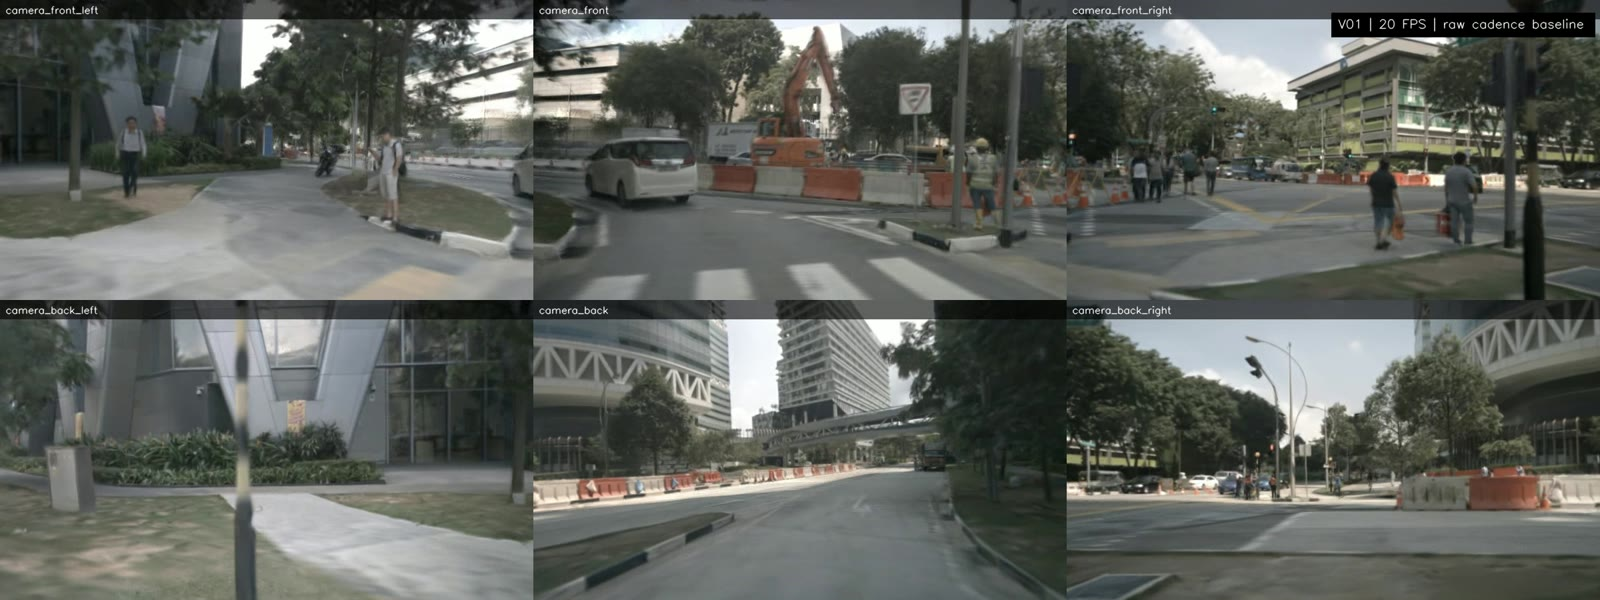
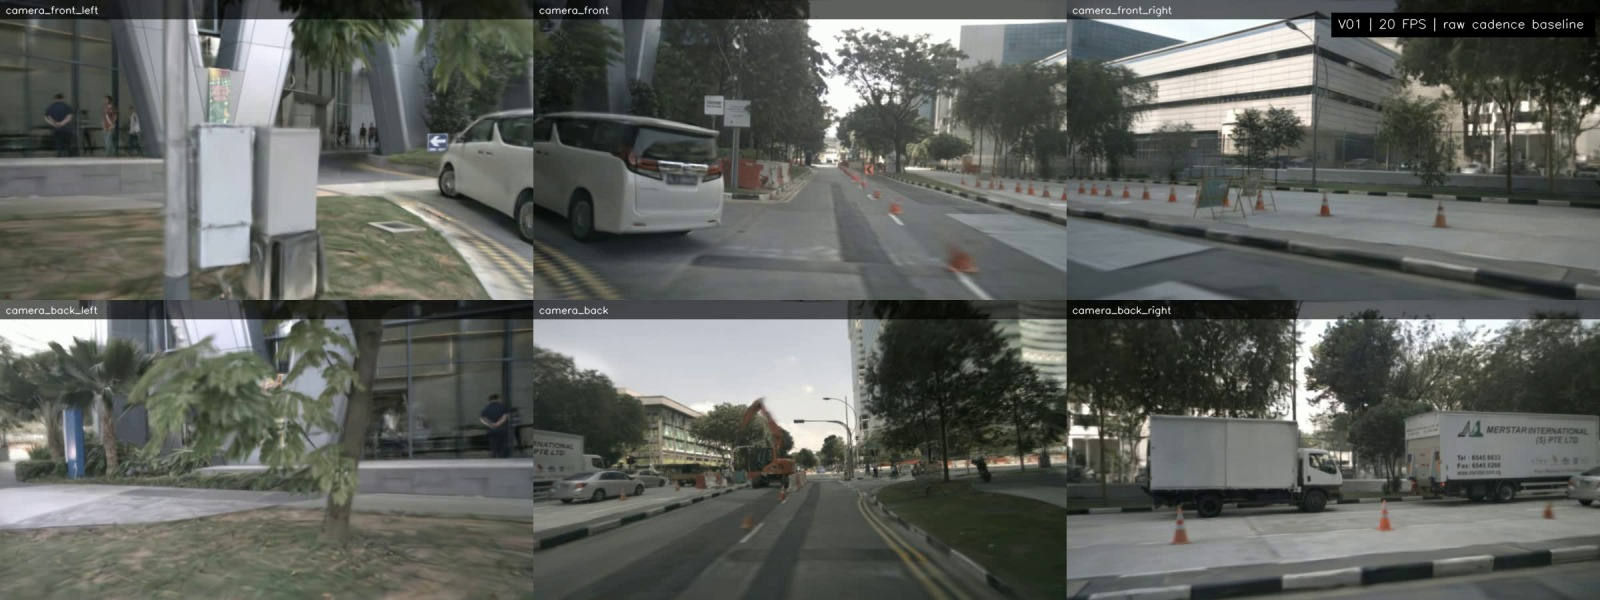
docs: align NeuralSceneBridge evidence stills

diff --git a/website/src/content/projects/en/neural-scene-bridge.md b/website/src/content/projects/en/neural-scene-bridge.md
@@ -67,20 +67,24 @@ runtime, and closed-loop evaluation. The full boundary is recorded in
 
 ## Viewer evidence
 
-These images are stills extracted from the final playback videos. The camera labels, case labels, and V03 pose readout are retained so the request-to-render-to-evidence relationship is visible in one glance.
+These images are stills extracted from the final playback videos. All four
+stills use playback frame `360/385` from the same 20 FPS sequence, so the scene
+state is directly comparable across V01, V02, V03, and V04. The camera labels,
+case labels, and V03 pose readout are retained so the request-to-render-to-
+evidence relationship is visible in one glance.
 
 <div class="project-evidence-grid">
   <figure>
     <img src="/projects/neural-scene-bridge/v01-original.jpg" alt="V01 six-camera original NuRec replay in a 3x2 layout" width="1600" height="600" loading="lazy" />
-    <figcaption>V01 original replay: six cameras are stitched in a fixed 3x2 order as the playback baseline for edits and probes.</figcaption>
+    <figcaption>V01 original replay, frame 360/385: six cameras are stitched in a fixed 3x2 order as the playback baseline for edits and probes.</figcaption>
   </figure>
   <figure>
     <img src="/projects/neural-scene-bridge/v02-edit.jpg" alt="V02 lead vehicle edit in the six-camera NuRec viewer" width="1600" height="600" loading="lazy" />
-    <figcaption>V02 lead-vehicle edit: a world-frame `+0.5m` target change reaches `render_rgb`; the front-camera view and case identity stay inspectable.</figcaption>
+    <figcaption>V02 lead-vehicle edit, frame 360/385: a world-frame `+0.5m` target change reaches `render_rgb`; the front-camera view and case identity stay inspectable.</figcaption>
   </figure>
   <figure>
     <img src="/projects/neural-scene-bridge/v03-camera-sweep.jpg" alt="V03 six-camera bounded camera pose sweep with translation and yaw readout" width="1600" height="600" loading="lazy" />
-    <figcaption>V03 camera pose sweep: `dx / dy / yaw / progress` is printed in the viewer, showing that pose control reaches the RPC request.</figcaption>
+    <figcaption>V03 camera pose sweep, frame 360/385: `dx / dy / yaw / progress` is printed in the viewer, showing that pose control reaches the RPC request.</figcaption>
   </figure>
 </div>
 
@@ -89,7 +93,7 @@ These images are stills extracted from the final playback videos. The camera lab
 <div class="project-evidence-grid">
   <figure>
     <img src="/projects/neural-scene-bridge/v04-alignment-diagnostic.jpg" alt="V04 four-panel RGB and LiDAR multimodal alignment diagnostic with added and removed points" width="1600" height="900" loading="lazy" />
-    <figcaption>V04 multimodal attempt: original RGB/LiDAR are above, edited RGB and the LiDAR overlay are below. Blue/yellow points show response differences; they are not actor-owned point labels.</figcaption>
+    <figcaption>V04 multimodal diagnostic, frame 360/385: original RGB/LiDAR are above, edited RGB and the LiDAR overlay are below. Blue/yellow points show response differences; they are not actor-owned point labels.</figcaption>
   </figure>
 </div>
 

diff --git a/website/src/content/projects/neural-scene-bridge.md b/website/src/content/projects/neural-scene-bridge.md
@@ -60,20 +60,20 @@ locale: zh
 
 ## Viewer 结果
 
-以下图片均从最终 playback video 抽帧，保留了 viewer 的 camera label、case 标识和 V03 的参数读数。大图用于面试时快速说明“请求 -> 画面 -> 证据”的对应关系。
+以下图片均从最终 playback video 抽帧，四张图统一使用同一段 20 FPS 序列的 `360/385` 帧，因此 V01、V02、V03、V04 可以直接横向对比。图片保留了 viewer 的 camera label、case 标识和 V03 的参数读数，方便面试时说明“请求 -> 画面 -> 证据”的对应关系。
 
 <div class="project-evidence-grid">
   <figure>
     <img src="/projects/neural-scene-bridge/v01-original.jpg" alt="V01 six-camera original NuRec replay in a 3x2 layout" width="1600" height="600" loading="lazy" />
-    <figcaption>V01 original replay：六路相机按固定顺序拼成 3x2 视图，作为后续 edit 和 pose probe 的回放基线。</figcaption>
+    <figcaption>V01 original replay，frame 360/385：六路相机按固定顺序拼成 3x2 视图，作为后续 edit 和 pose probe 的回放基线。</figcaption>
   </figure>
   <figure>
     <img src="/projects/neural-scene-bridge/v02-edit.jpg" alt="V02 lead vehicle edit in the six-camera NuRec viewer" width="1600" height="600" loading="lazy" />
-    <figcaption>V02 lead-vehicle edit：同一目标的 world-frame `+0.5m` edit 进入 `render_rgb`，图中保留 front camera 和 case 标识。</figcaption>
+    <figcaption>V02 lead-vehicle edit，frame 360/385：同一目标的 world-frame `+0.5m` edit 进入 `render_rgb`，图中保留 front camera 和 case 标识。</figcaption>
   </figure>
   <figure>
     <img src="/projects/neural-scene-bridge/v03-camera-sweep.jpg" alt="V03 six-camera bounded camera pose sweep with translation and yaw readout" width="1600" height="600" loading="lazy" />
-    <figcaption>V03 camera pose sweep：底部读数展示了当前 `dx / dy / yaw / progress`，证明相机 pose 不是只写进配置而是进入了 RPC 请求。</figcaption>
+    <figcaption>V03 camera pose sweep，frame 360/385：底部读数展示了当前 `dx / dy / yaw / progress`，证明相机 pose 不是只写进配置而是进入了 RPC 请求。</figcaption>
   </figure>
 </div>
 
@@ -82,7 +82,7 @@ locale: zh
 <div class="project-evidence-grid">
   <figure>
     <img src="/projects/neural-scene-bridge/v04-alignment-diagnostic.jpg" alt="V04 four-panel RGB and LiDAR multimodal alignment diagnostic with added and removed points" width="1600" height="900" loading="lazy" />
-    <figcaption>V04 multimodal attempt：上排是 original RGB/LiDAR，下排是 lead-vehicle edit RGB 与 LiDAR overlay；蓝/黄点只表示响应差异，不能直接当作目标 actor 的点云标签。</figcaption>
+    <figcaption>V04 multimodal diagnostic，frame 360/385：上排是 original RGB/LiDAR，下排是 lead-vehicle edit RGB 与 LiDAR overlay；蓝/黄点只表示响应差异，不能直接当作目标 actor 的点云标签。</figcaption>
   </figure>
 </div>
 
